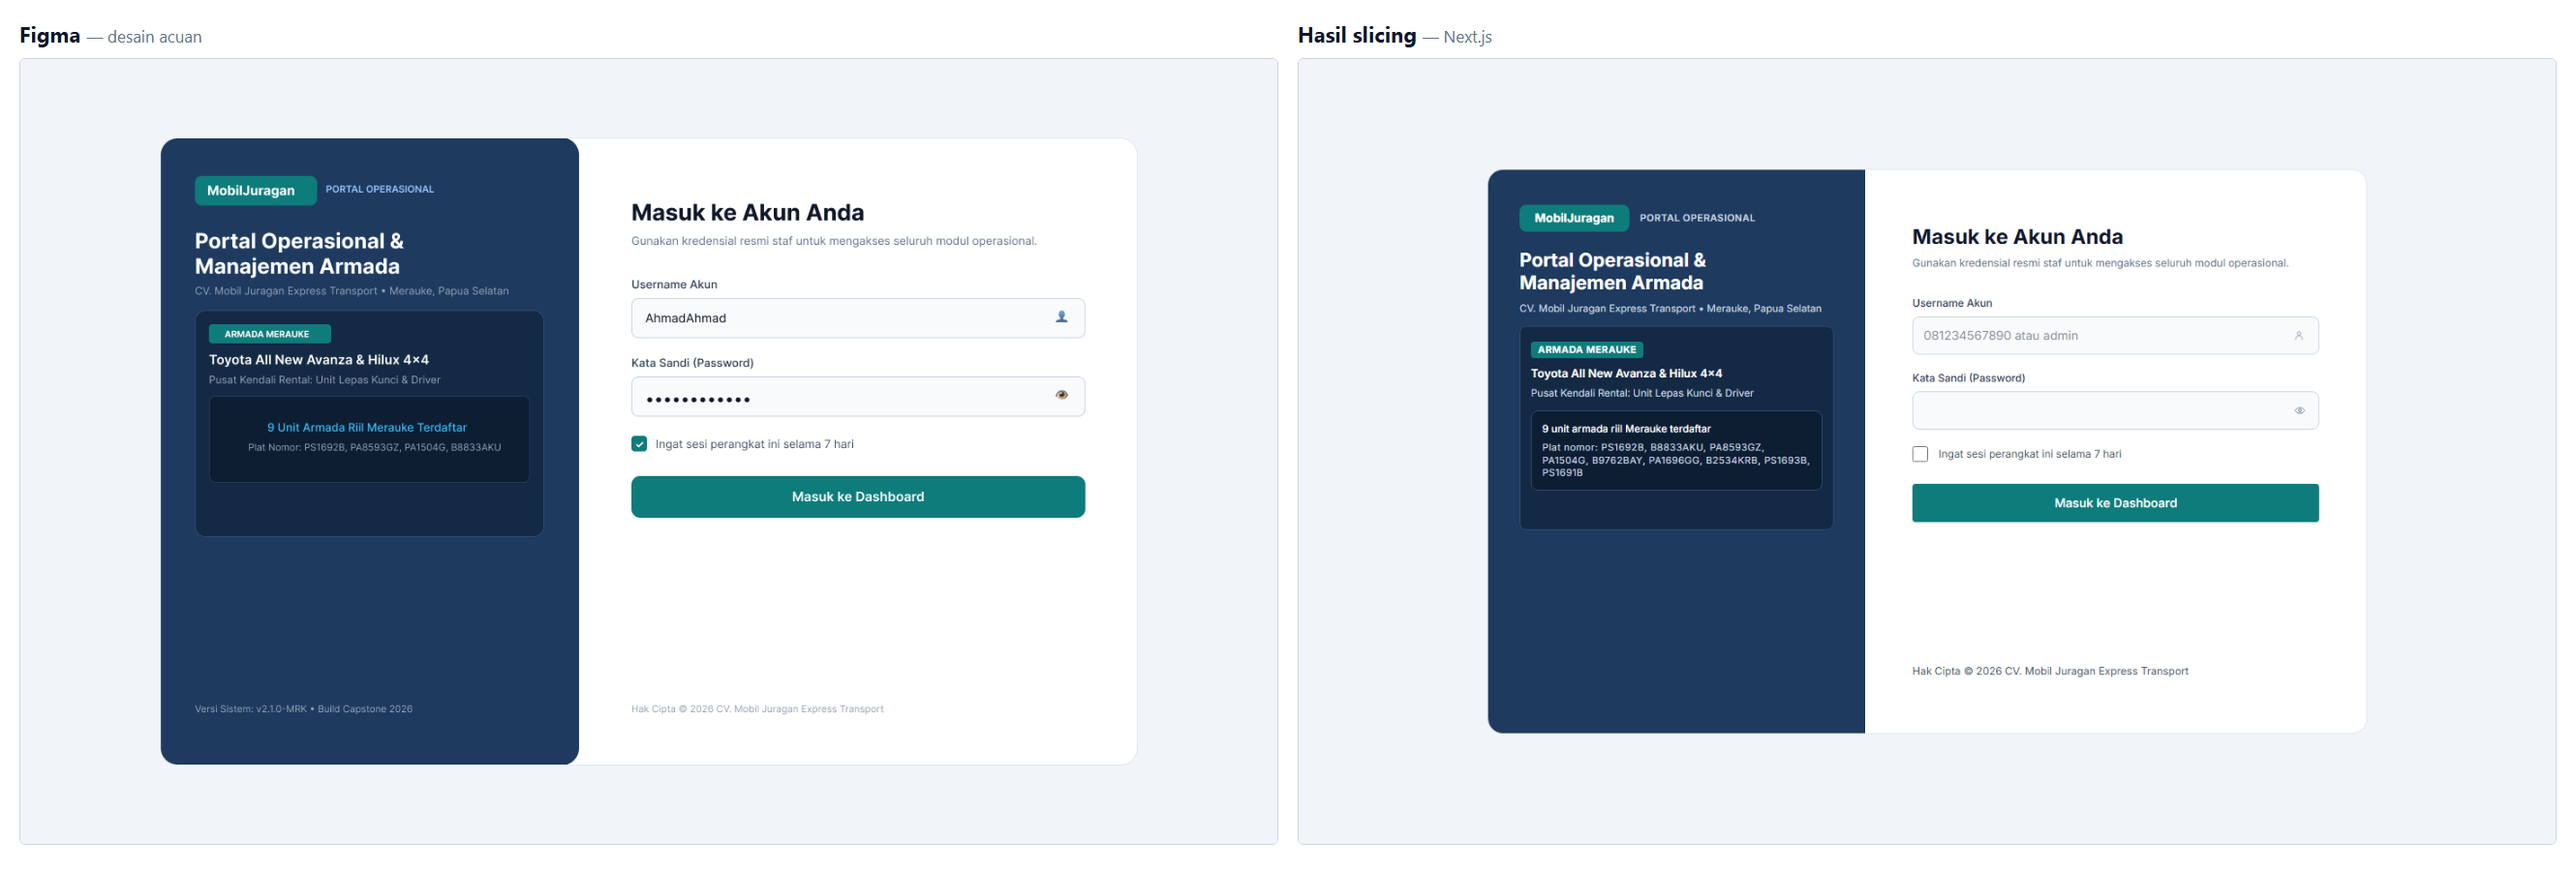
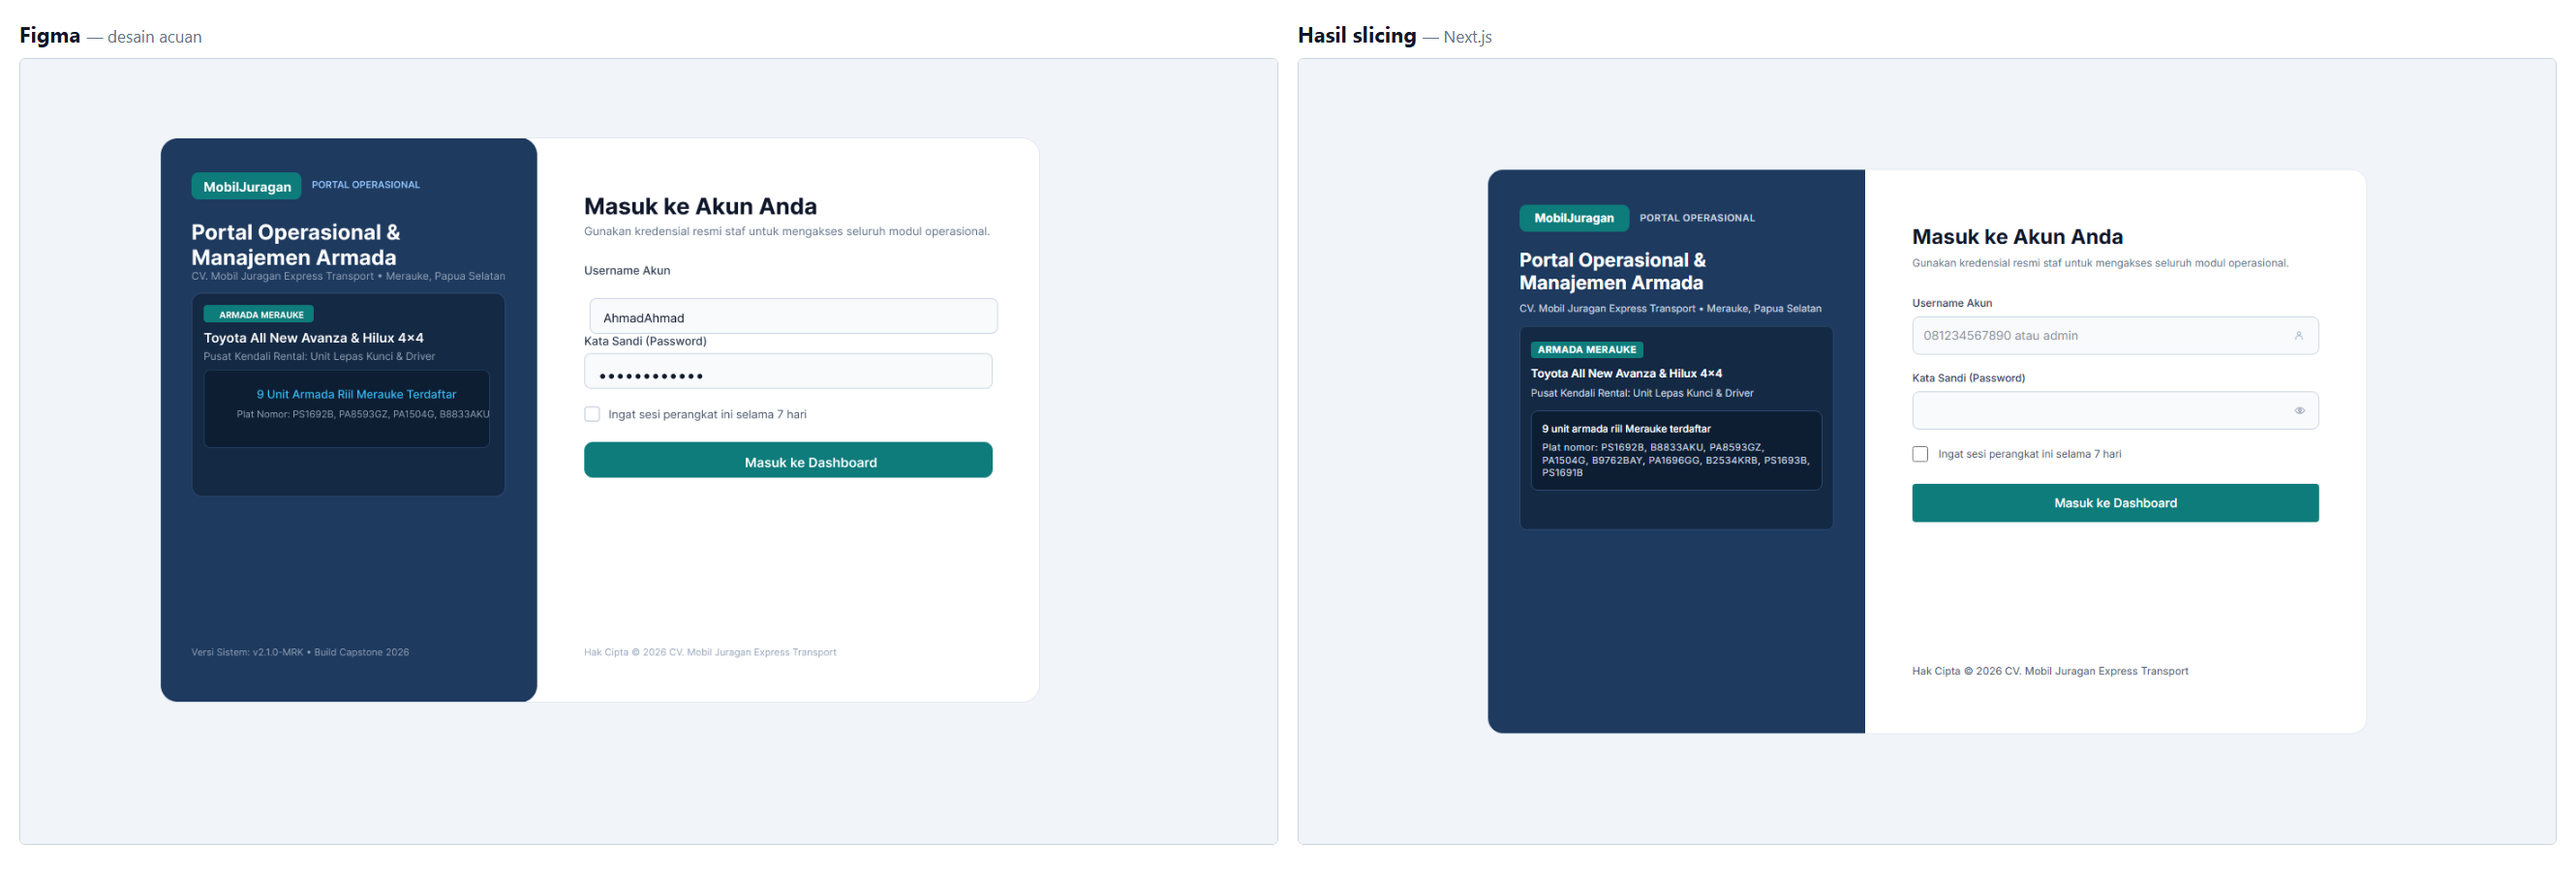
perbarui gambar perbandingan figma setelah desain diselaraskan

Changed region(s): [[0.0624, 0.1556, 0.4368, 0.9022]]

diff --git a/README.md b/README.md
@@ -158,7 +158,7 @@ Sesuai butir ketentuan nilai tambah (*extra credit*) pada soal UTS Web Framework
 
 ## 7. Perbandingan Figma vs Hasil Slicing
 
-Tangkapan diambil pada viewport **1440x900**, sama dengan ukuran frame Figma, supaya proporsinya bisa dibandingkan langsung. Frame acuan: `Screen / Login Admin` (`49:9355`) dan `Screen / Manajemen Akun Admin` (`49:8879`) pada halaman **dashboard** berkas *Mobiljuragan*.
+Tangkapan diambil pada viewport **1440x900**, sama dengan ukuran frame Figma, supaya proporsinya bisa dibandingkan langsung. Frame acuan: `Screen / Login Admin` (`49:9355`) dan `Screen / Manajemen Akun Admin` (`49:8879`) pada halaman **dashboard** berkas *Mobiljuragan*. Desain Figma ikut disesuaikan agar sama dengan hasil slicing, sehingga kedua sisi pada gambar di bawah ini mencerminkan tampilan akhir.
 
 ### 7.1 Halaman Login
 
@@ -169,8 +169,8 @@ Tangkapan diambil pada viewport **1440x900**, sama dengan ukuran frame Figma, su
 | Warna, tipografi, ikon | Navy + teal, Inter, ikon SVG | Sama | Sesuai |
 | Susunan panel | Panel navy kiri, form kanan | Sama | Sesuai |
 | Isi panel armada | Jumlah unit + daftar plat | Sama, diambil dari database | Sesuai, tidak ditulis tetap |
-| Ukuran kartu | 1120x720 | 1008x648 (skala 90%) | **Disengaja**: kartu 720px membuat halaman menggulir di laptop 1366x768. Tinggi kontrol tetap 44px agar target sentuh tidak mengecil. |
-| Checkbox "Ingat sesi" | Tercentang | Tidak tercentang | **Disengaja**: default aman, sesi tidak otomatis tersimpan 7 hari |
+| Ukuran kartu | 1008x648 | 1008x648 | Sesuai. Desain Figma ikut diperkecil dari 1120x720, karena kartu 720px membuat halaman menggulir di laptop 1366x768. Tinggi kontrol tetap 44px agar target sentuh tidak mengecil. |
+| Checkbox "Ingat sesi" | Tidak tercentang | Tidak tercentang | Sesuai. Desain Figma ikut diubah dari tercentang menjadi tidak tercentang, mengikuti default aman di aplikasi. |
 | Baris "Versi Sistem" | Ada di dasar panel navy | Belum ada | Selisih tampilan, tidak memengaruhi fungsi |
 
 ### 7.2 Halaman Manajemen Admin
@@ -180,11 +180,11 @@ Tangkapan diambil pada viewport **1440x900**, sama dengan ukuran frame Figma, su
 | Bagian | Figma | Hasil slicing | Keterangan |
 | :--- | :--- | :--- | :--- |
 | Warna, tabel, chip status | Navy, tabel garis, chip | Sama | Sesuai |
-| Kolom tabel | Nama, Username, Role, Status, Aksi | Sama | Sesuai |
 | Teks peran | "Staf Operasional (Pool)" | Sama | Sesuai |
 | Username | Username teks (`markus_pool`) | Nomor telepon (`081234567899`) | Backend memakai nomor telepon sebagai identitas masuk, jadi kolomnya menampilkan data nyata |
-| Kotak pencarian | Tidak ada | Ada | **Tambahan** untuk nilai ekstra React Query (pencarian langsung) |
-| Tombol aksi | Hanya "Edit Admin" | "Edit Admin" + "Hapus" | Hapus ditambahkan karena endpoint `DELETE /admin/users/:id` memang ada |
-| Judul halaman | H1 "Manajemen Akun Staf & Hak Akses" | Hanya judul di topbar | Judul H1 dihapus agar tidak mengulang nama halaman tiga kali (topbar, menu sidebar, dan judul konten) |
+| Kotak pencarian | Ada | Ada | Sesuai. Desain Figma ikut ditambahi kotak pencarian. |
+| Tombol aksi | Hanya "Edit Admin" | "Edit Admin" + "Hapus" | Hapus hanya ada di aplikasi, karena endpoint `DELETE /admin/users/:id` memang tersedia |
+| Judul halaman | Tanpa H1 | Tanpa H1 | Sesuai. Judul H1 di Figma ikut dihapus agar tidak mengulang nama halaman tiga kali (topbar, menu sidebar, dan judul konten) |
+| Kepala kolom | "Role", "Username" | "Peran", "Nomor Telepon / Username" | Label memakai bahasa Indonesia dan menyebut isi kolom apa adanya |
 
-Catatan: seluruh perbedaan di atas adalah keputusan yang diambil sadar, bukan bagian yang belum selesai. Tangkapan layar di atas dihasilkan ulang oleh skrip `.verify/buat-perbandingan-figma.mjs`, sehingga bisa diperbarui kapan saja setelah tampilan berubah.
+Catatan: desain Figma ikut diperbarui pada 7 Oktober 2026 agar selaras dengan hasil slicing. Perbedaan yang tersisa hanyalah keputusan sadar, bukan bagian yang belum selesai. Tangkapan layar di atas dihasilkan ulang oleh skrip `.verify/buat-perbandingan-figma.mjs`, sehingga bisa diperbarui kapan saja setelah tampilan berubah.
